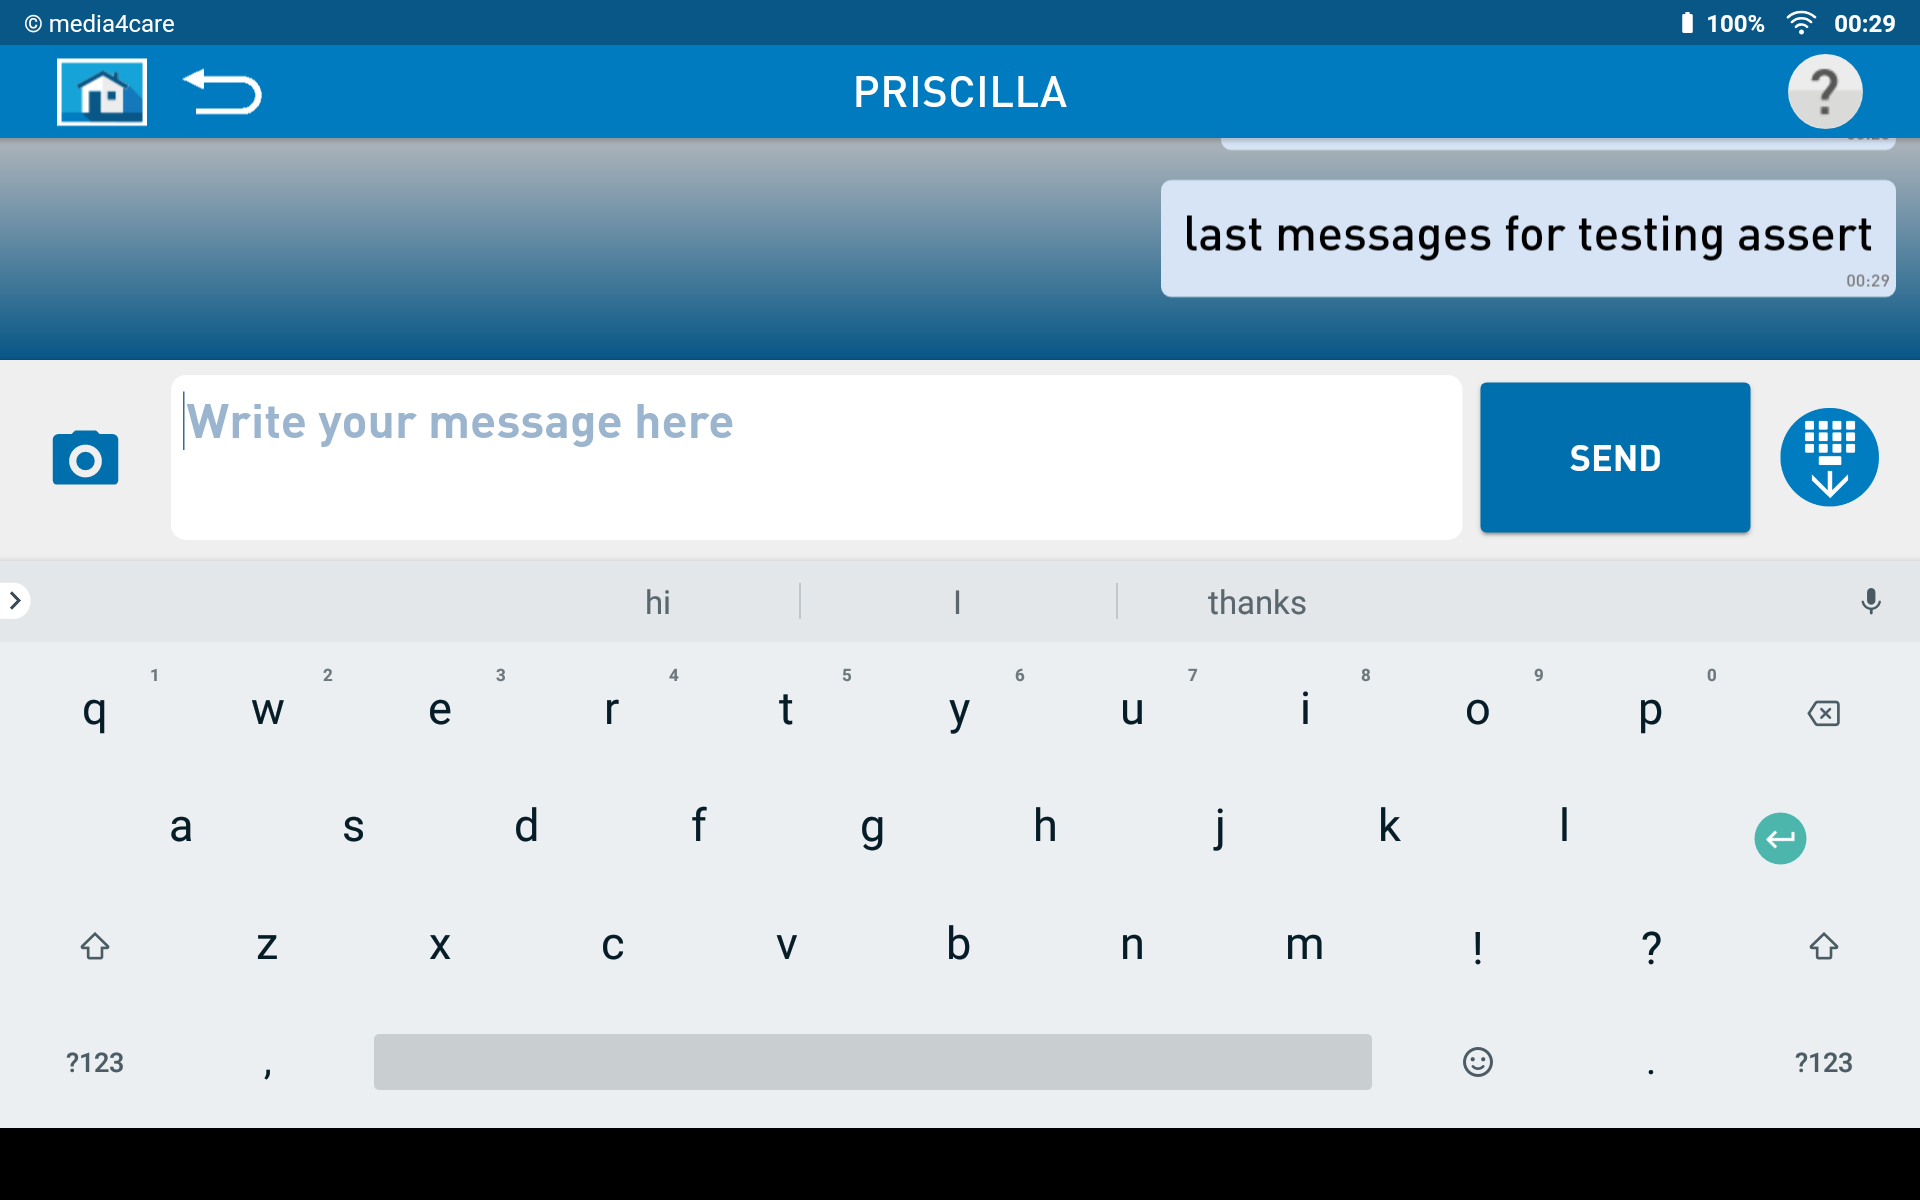
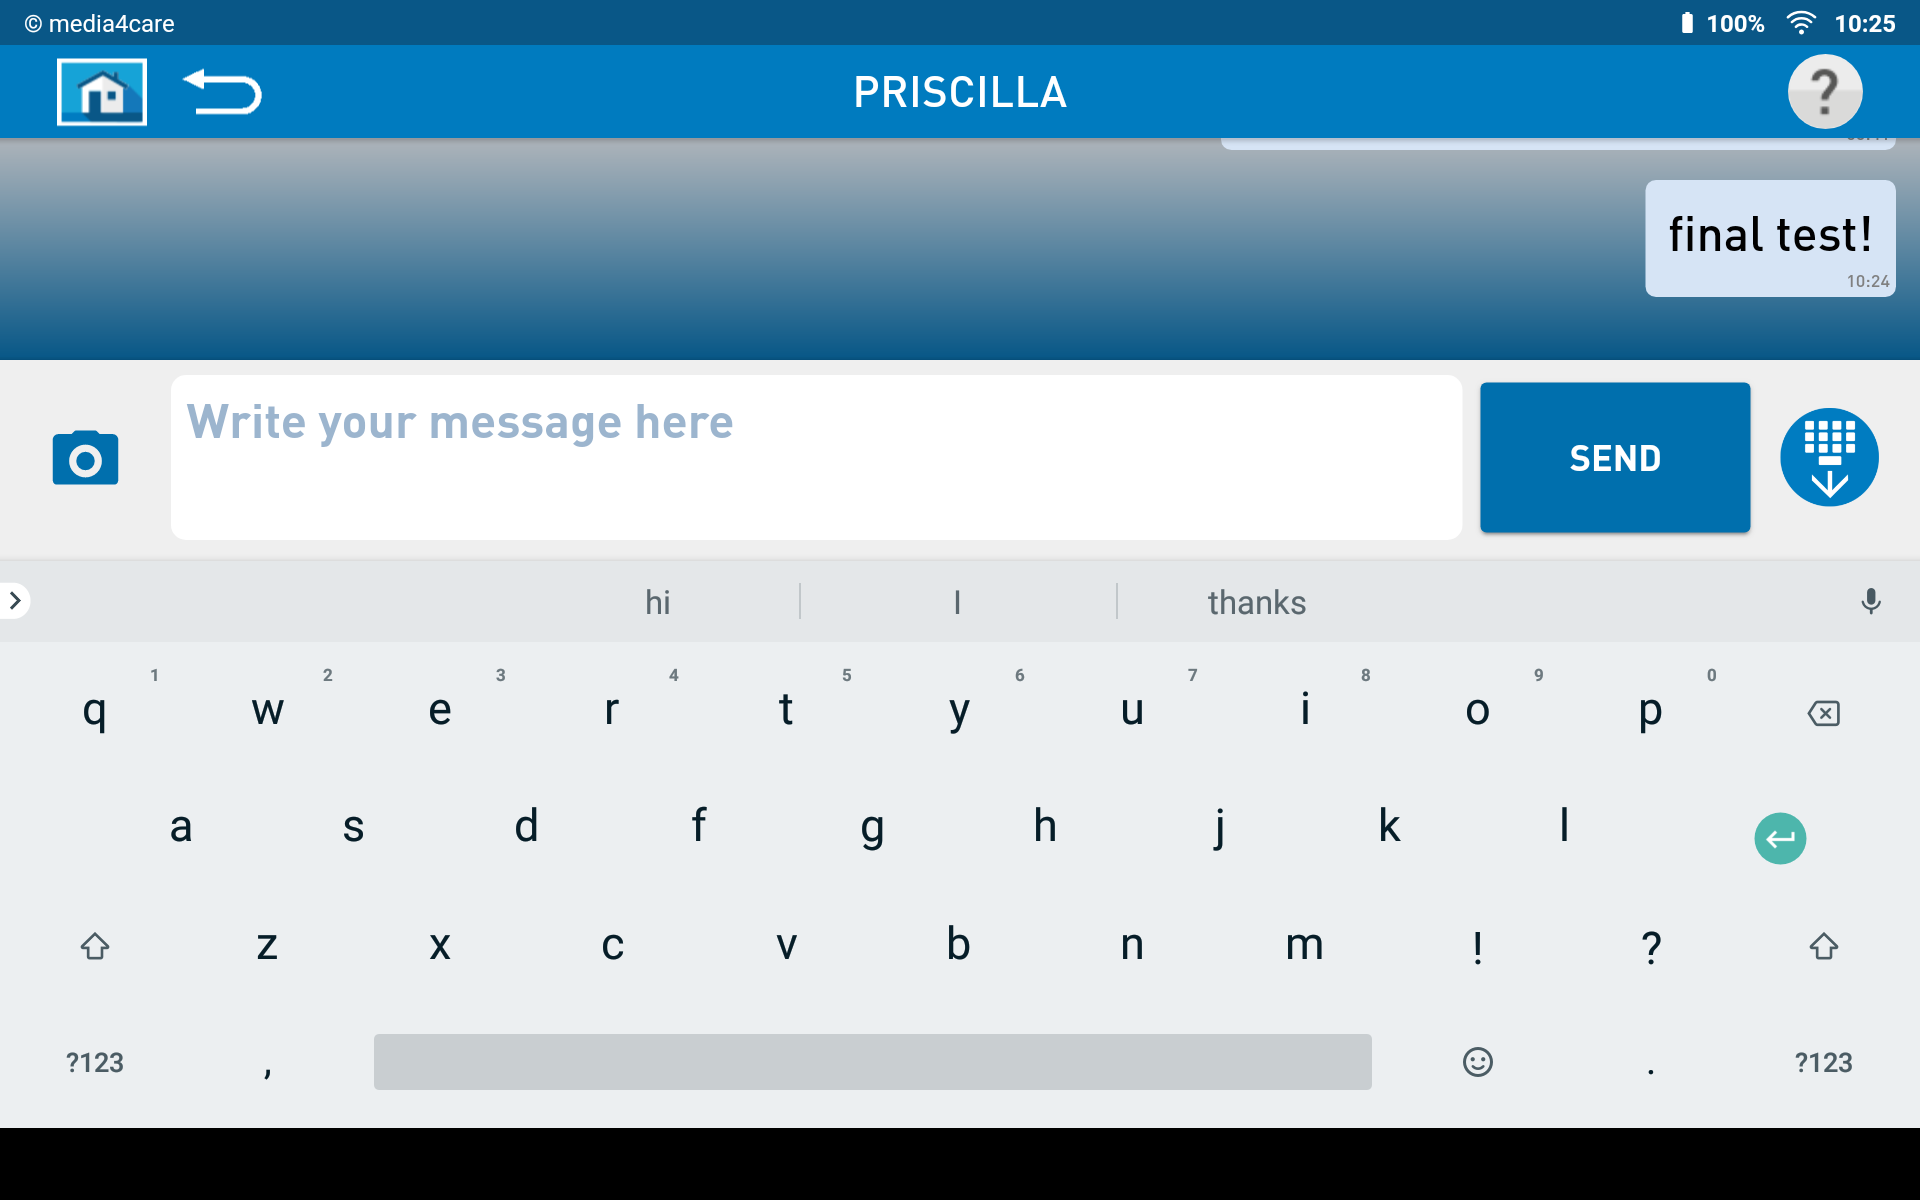
update on file naming and shared-config file

Changed region(s): [[0.5938, 0.1233, 0.9688, 0.2467]]

diff --git a/config/wdio.android.app.conf.js b/config/wdio.android.app.conf.js
@@ -4,7 +4,41 @@ const { config } = require("./wdio.shared.conf");
 // ============
 // Specs
 // ============
-config.specs = ["./tests/specs/**/app*.spec.js"];
+
+//Tells which files to loops through during testing
+const config_string_for_dementia = "./tests/specs/**/dem*.spec.js";
+const config_string_for_family = "./tests/specs/**/fam*.spec.js";
+const deafult_config_string = "./tests/specs/**/app*.spec.js";
+
+//scrip to know which test to run /--------------"default" , "seniors" or "family"--------------/
+//change the value of "app_tested" to test respective apps
+let app_tested = "seniors";
+var appPackageText = "com.media4care.dementia";
+switch(app_tested){
+  //Default
+  case "default":
+
+    appPackageText = "com.media4care.dementia";
+config.specs = [`${deafult_config_string}`];
+
+  break;
+
+  //Seniors App
+  case "seniors":
+    appPackageText = "com.media4care.dementia"
+config.specs = [`${config_string_for_dementia}`];
+
+  break;
+
+  //Family App
+  case "family":
+    appPackageText = "com.media4care.family"
+config.specs = [`${config_string_for_family}`];
+
+  break;
+    
+}
+// config.specs = ["./tests/specs/**/app*.spec.js"];
 
 // ============
 // Capabilities
@@ -21,16 +55,14 @@ config.capabilities = [
     // This is `appium:` for all Appium Capabilities which can be found here
     "appium:deviceName": "emulator-5554",
     "appium:platformVersion": "9.0",
-    "appium:orientation": "LANDSCAPE",
+    // "appium:orientation": "LANDSCAPE",
     // `automationName` will be mandatory, see
     // https://github.com/appium/appium/releases/tag/v1.13.0
     "appium:automationName": "UiAutomator2",
     // The path to the app
     // "appium:app": join(process.cwd(), "./apps/Android-NativeDemoApp-0.2.1.apk"),
     
-    //    uncomment next line to test seniors app
-    //    "appium:appPackage": "com.media4care.dementia",
-    "appium:appPackage": "com.media4care.dementia",
+       "appium:appPackage": appPackageText,
     "appium:appActivity": "com.media4care.common.MainActivity",
     "appium:fullReset": false,
     // Read the reset strategies very well, they differ per platform, see

diff --git a/tests/specs/dem.testImageSend.spec.js b/tests/specs/dem.testImageSend.spec.js
@@ -1,4 +1,4 @@
-describe("Sending an Image", () => {
+describe("Sending an Image to a private member", () => {
     //SubTest1
     it("should click message button", () => {
       const messageGroupBtn = $(
@@ -42,14 +42,12 @@ describe("Sending an Image", () => {
 
 
   //SubTest4
-   it("should select image",()=>{
+   it("should select camera icon",()=>{
      const ImageBtn = $(
-    "//android.widget.ImageView[@content-desc='Shutter']"
-     );
-
-     return ImageBtn.click();
-
-       });
+    "//android.widget.ImageView[@content-desc='Shutter']")
+    return ImageBtn.click(); 
+     
+    });
 
 
 

diff --git a/tests/specs/dem.textTesting.spec.js b/tests/specs/dem.textTesting.spec.js
@@ -28,7 +28,7 @@ it("should click familygroup button", () => {
     );
     messageTextfield.waitForDisplayed({ timeout: 20000 });
     messageTextfield.click();
-    return messageTextfield.setValue("this is a new test message from the seniors app");
+    return messageTextfield.setValue("this is the final test");
   });
 
   //SubTest4

diff --git a/tests/specs/dem.testprivateMsg.spec.js b/tests/specs/dem.testprivateMsg.spec.js
@@ -35,7 +35,7 @@ it("should click family member button", () => {
     );
     messageTextfield.waitForDisplayed({ timeout: 20000 });
     messageTextfield.click();
-    return messageTextfield.setValue("last messages for testing assert");
+    return messageTextfield.setValue("final test!");
   });
 
 
